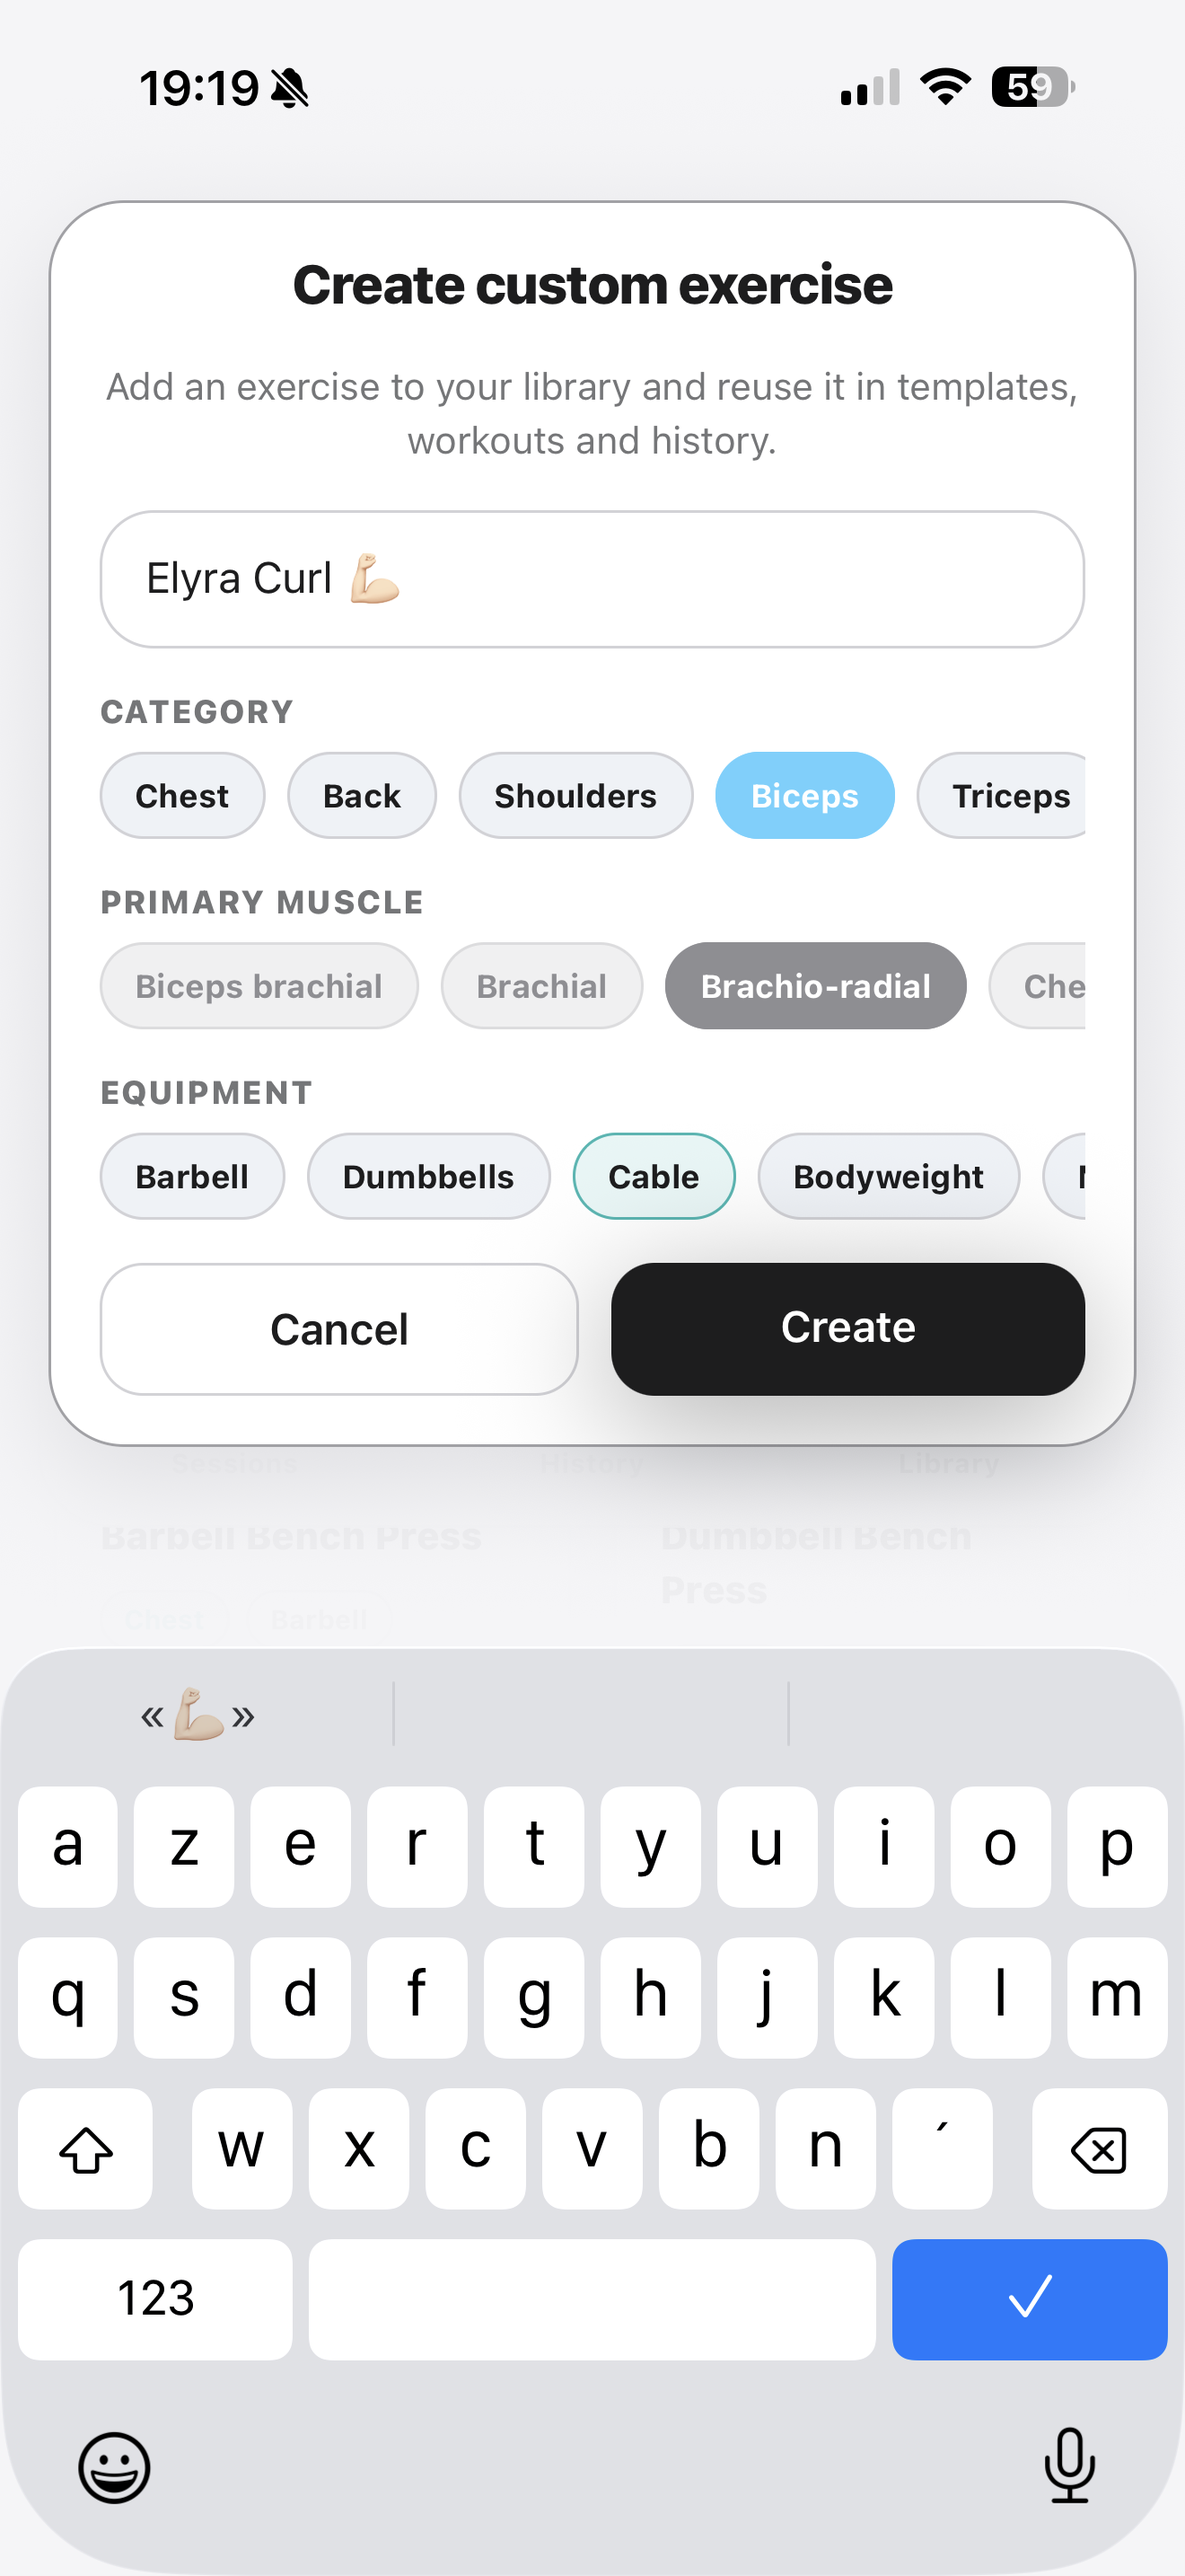
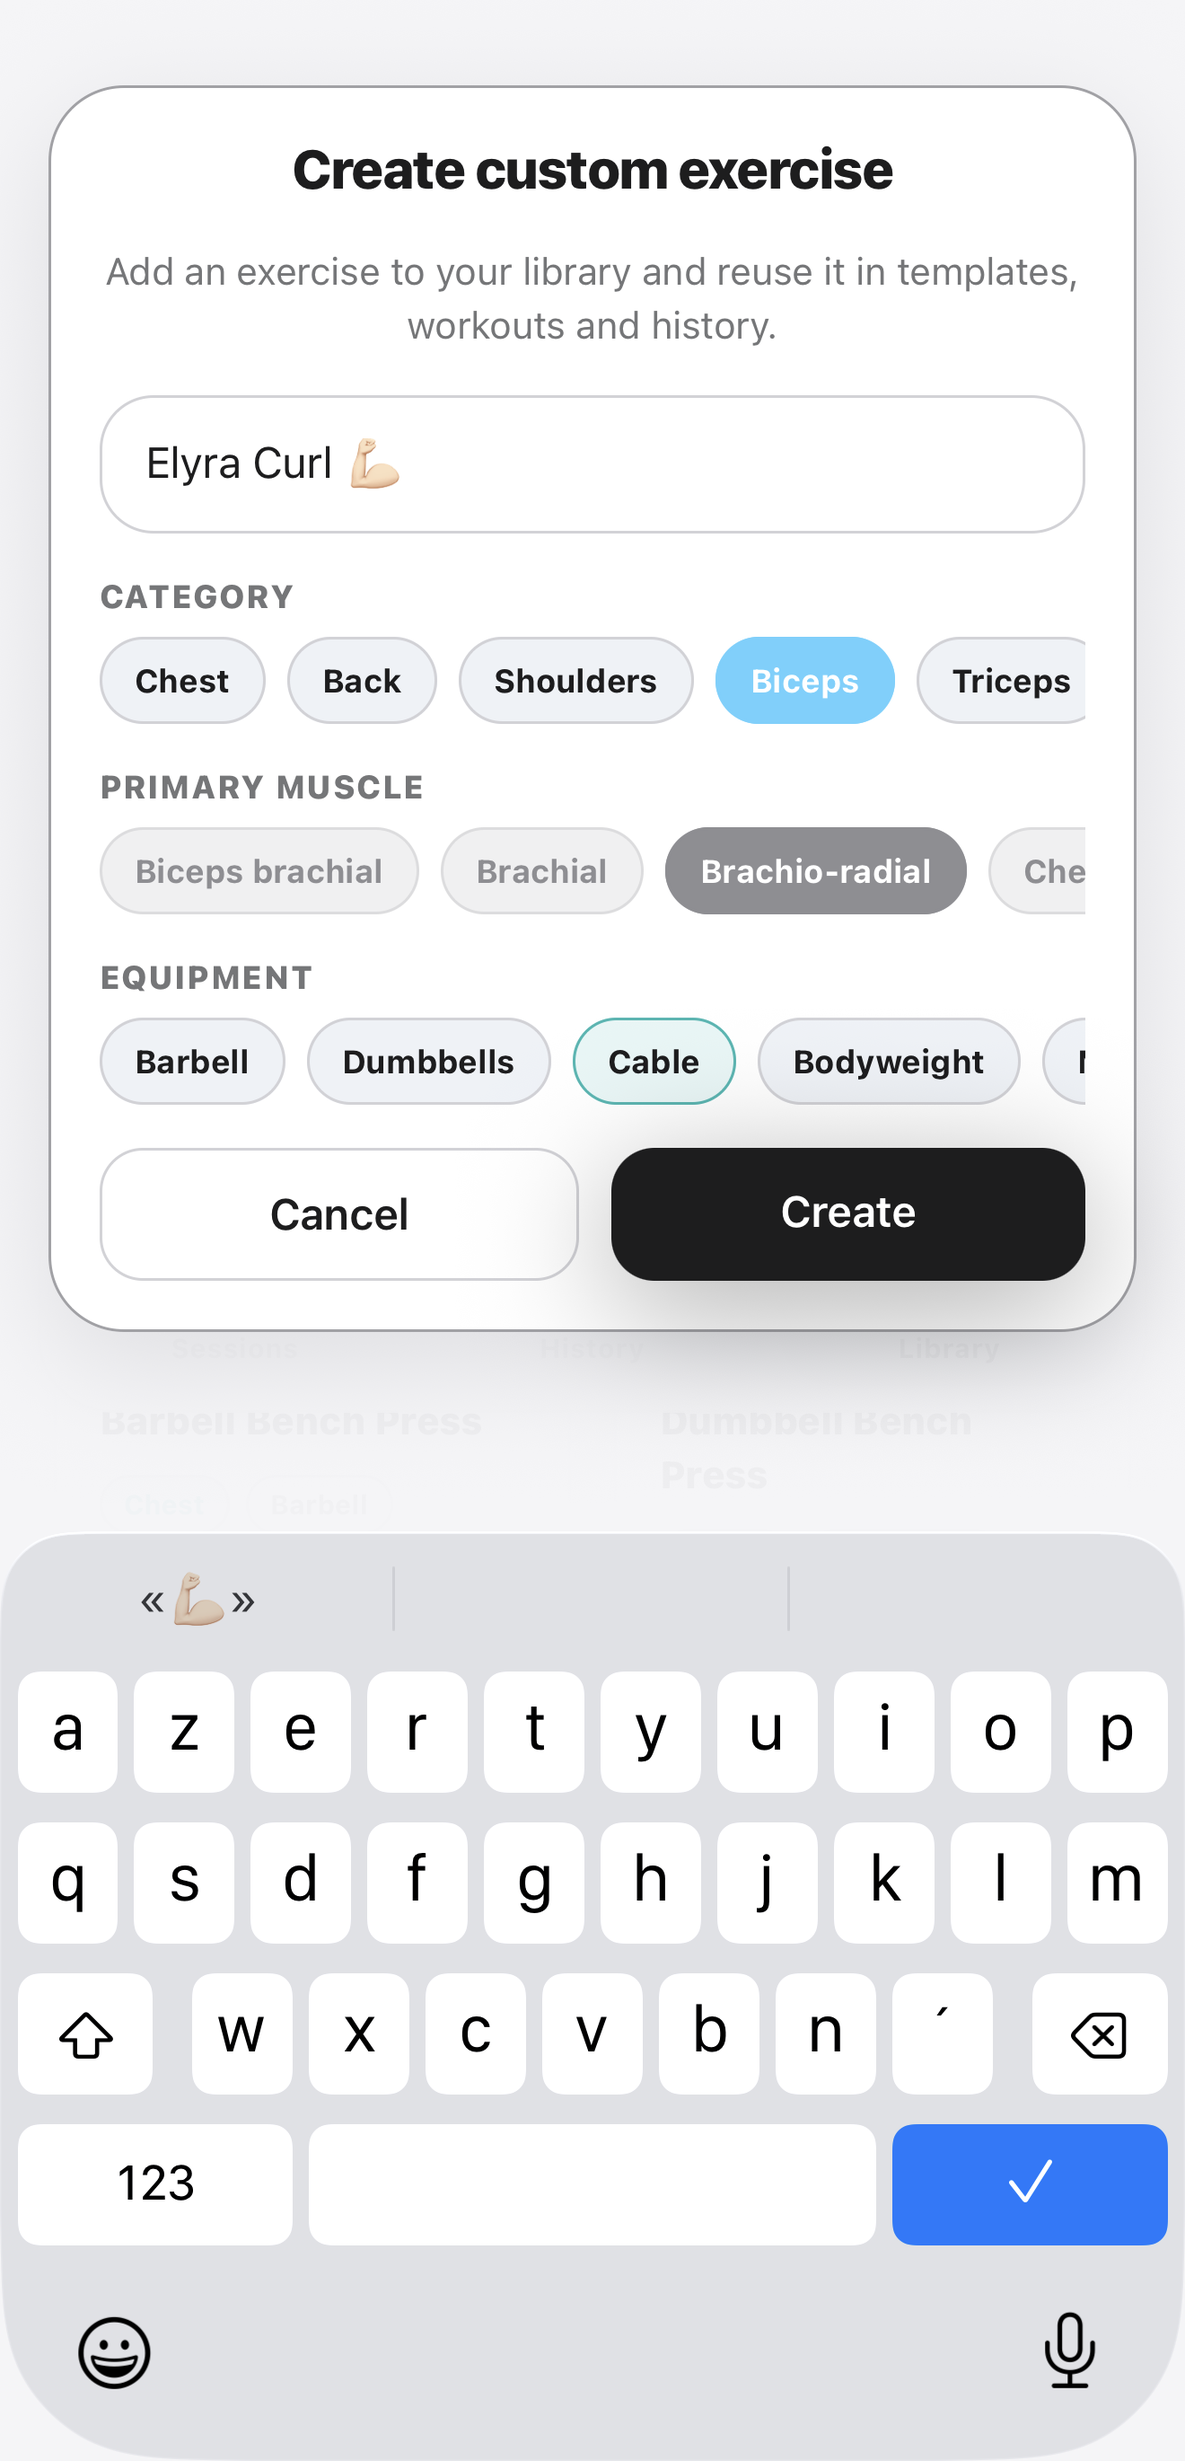
Polish app screenshots for public mockups

diff --git a/index.html b/index.html
@@ -47,7 +47,7 @@
     <link rel="manifest" href="site.webmanifest" />
     <link rel="preload" as="image" href="assets/brand/elyra-app-icon.png" />
     <link rel="preload" as="image" href="assets/screenshots/fr/home.png" />
-    <link rel="stylesheet" href="styles.css?v=20260429-2" />
+    <link rel="stylesheet" href="styles.css?v=20260429-3" />
     <script>
       document.documentElement.classList.add("js");
     </script>
@@ -141,7 +141,7 @@
                   src="assets/screenshots/fr/home.png"
                   alt="Aperçu de l'écran d'accueil Elyra sur iPhone."
                   width="1320"
-                  height="2868"
+                  height="2740"
                   decoding="async"
                   fetchpriority="high"
                 />
@@ -188,7 +188,7 @@
                   src="assets/screenshots/fr/nutrition.png"
                   alt="Aperçu du journal nutrition Elyra sur iPhone."
                   width="1320"
-                  height="2868"
+                  height="2740"
                   loading="lazy"
                   decoding="async"
                 />
@@ -210,7 +210,7 @@
                     src="assets/screenshots/fr/meal-plan.png"
                     alt="Aperçu du plan alimentaire Elyra."
                     width="1320"
-                    height="2868"
+                    height="2740"
                     loading="lazy"
                     decoding="async"
                   />
@@ -230,7 +230,7 @@
                     src="assets/screenshots/fr/nutrition-stats.png"
                     alt="Aperçu des statistiques nutrition dans Elyra."
                     width="1320"
-                    height="2868"
+                    height="2740"
                     loading="lazy"
                     decoding="async"
                   />
@@ -250,7 +250,7 @@
                     src="assets/screenshots/fr/recipe.png"
                     alt="Aperçu d'une recette dans Elyra."
                     width="1320"
-                    height="2868"
+                    height="2740"
                     loading="lazy"
                     decoding="async"
                   />
@@ -315,7 +315,7 @@
                     src="assets/screenshots/fr/exercise-detail.png"
                     alt="Aperçu d'une fiche exercice dans Elyra."
                     width="1320"
-                    height="2868"
+                    height="2740"
                     loading="lazy"
                     decoding="async"
                   />
@@ -335,7 +335,7 @@
                     src="assets/screenshots/fr/custom-exercise.png"
                     alt="Aperçu de la création d'exercice personnalisé dans Elyra."
                     width="1320"
-                    height="2868"
+                    height="2740"
                     loading="lazy"
                     decoding="async"
                   />
@@ -355,7 +355,7 @@
                     src="assets/screenshots/fr/active-workout.png"
                     alt="Aperçu d'une séance active dans Elyra."
                     width="1320"
-                    height="2868"
+                    height="2740"
                     loading="lazy"
                     decoding="async"
                   />
@@ -403,7 +403,7 @@
                   src="assets/screenshots/fr/progress.png"
                   alt="Aperçu détaillé de la progression dans Elyra."
                   width="1320"
-                  height="2868"
+                  height="2740"
                   loading="lazy"
                   decoding="async"
                 />
@@ -425,7 +425,7 @@
                     src="assets/screenshots/fr/hydration.png"
                     alt="Aperçu du suivi d'hydratation dans Elyra."
                     width="1320"
-                    height="2868"
+                    height="2740"
                     loading="lazy"
                     decoding="async"
                   />
@@ -466,7 +466,7 @@
                     src="assets/screenshots/fr/community.png"
                     alt="Aperçu de la communauté Elyra avec des séances partagées."
                     width="1320"
-                    height="2868"
+                    height="2740"
                     loading="lazy"
                     decoding="async"
                   />
@@ -487,7 +487,7 @@
                     src="assets/screenshots/fr/unilateral.png"
                     alt="Aperçu du suivi unilatéral dans une séance Elyra."
                     width="1320"
-                    height="2868"
+                    height="2740"
                     loading="lazy"
                     decoding="async"
                   />
@@ -508,7 +508,7 @@
                     src="assets/screenshots/fr/supplements.png"
                     alt="Aperçu du suivi des suppléments dans Elyra."
                     width="1320"
-                    height="2868"
+                    height="2740"
                     loading="lazy"
                     decoding="async"
                   />

diff --git a/index-en.html b/index-en.html
@@ -47,7 +47,7 @@
     <link rel="manifest" href="site.webmanifest" />
     <link rel="preload" as="image" href="assets/brand/elyra-app-icon.png" />
     <link rel="preload" as="image" href="assets/screenshots/en/home.png" />
-    <link rel="stylesheet" href="styles.css?v=20260429-2" />
+    <link rel="stylesheet" href="styles.css?v=20260429-3" />
     <script>
       document.documentElement.classList.add("js");
     </script>
@@ -141,7 +141,7 @@
                   src="assets/screenshots/en/home.png"
                   alt="Preview of Elyra's home screen on iPhone."
                   width="1320"
-                  height="2868"
+                  height="2740"
                   decoding="async"
                   fetchpriority="high"
                 />
@@ -188,7 +188,7 @@
                   src="assets/screenshots/en/nutrition.png"
                   alt="Preview of Elyra nutrition tracking."
                   width="1320"
-                  height="2868"
+                  height="2740"
                   loading="lazy"
                   decoding="async"
                 />
@@ -210,7 +210,7 @@
                     src="assets/screenshots/en/meal-plan.png"
                     alt="Preview of Elyra meal planning."
                     width="1320"
-                    height="2868"
+                    height="2740"
                     loading="lazy"
                     decoding="async"
                   />
@@ -230,7 +230,7 @@
                     src="assets/screenshots/en/nutrition-stats.png"
                     alt="Preview of nutrition statistics in Elyra."
                     width="1320"
-                    height="2868"
+                    height="2740"
                     loading="lazy"
                     decoding="async"
                   />
@@ -250,7 +250,7 @@
                     src="assets/screenshots/en/recipe.png"
                     alt="Preview of a recipe in Elyra."
                     width="1320"
-                    height="2868"
+                    height="2740"
                     loading="lazy"
                     decoding="async"
                   />
@@ -315,7 +315,7 @@
                     src="assets/screenshots/en/exercise-detail.png"
                     alt="Preview of an exercise detail page in Elyra."
                     width="1320"
-                    height="2868"
+                    height="2740"
                     loading="lazy"
                     decoding="async"
                   />
@@ -335,7 +335,7 @@
                     src="assets/screenshots/en/custom-exercise.png"
                     alt="Preview of custom exercise creation in Elyra."
                     width="1320"
-                    height="2868"
+                    height="2740"
                     loading="lazy"
                     decoding="async"
                   />
@@ -355,7 +355,7 @@
                     src="assets/screenshots/en/training.png"
                     alt="Preview of an active workout in Elyra."
                     width="1320"
-                    height="2868"
+                    height="2740"
                     loading="lazy"
                     decoding="async"
                   />
@@ -403,7 +403,7 @@
                   src="assets/screenshots/en/progress.png"
                   alt="Detailed progress preview in Elyra."
                   width="1320"
-                  height="2868"
+                  height="2740"
                   loading="lazy"
                   decoding="async"
                 />
@@ -425,7 +425,7 @@
                     src="assets/screenshots/en/hydration.png"
                     alt="Preview of hydration tracking in Elyra."
                     width="1320"
-                    height="2868"
+                    height="2740"
                     loading="lazy"
                     decoding="async"
                   />
@@ -467,7 +467,7 @@
                     src="assets/screenshots/en/community.png"
                     alt="Preview of Elyra community workout sharing."
                     width="1320"
-                    height="2868"
+                    height="2740"
                     loading="lazy"
                     decoding="async"
                   />
@@ -488,7 +488,7 @@
                     src="assets/screenshots/en/unilateral.png"
                     alt="Preview of per-side exercise tracking in Elyra."
                     width="1320"
-                    height="2868"
+                    height="2740"
                     loading="lazy"
                     decoding="async"
                   />
@@ -509,7 +509,7 @@
                     src="assets/screenshots/en/supplements.png"
                     alt="Preview of supplement tracking in Elyra."
                     width="1320"
-                    height="2868"
+                    height="2740"
                     loading="lazy"
                     decoding="async"
                   />

diff --git a/styles.css b/styles.css
@@ -449,7 +449,7 @@ h3 {
 .hero-product-card {
   position: relative;
   width: min(100%, 340px);
-  aspect-ratio: 1320 / 2868;
+  aspect-ratio: 1320 / 2740;
   margin: auto;
   overflow: hidden;
   border: 1px solid rgba(255, 255, 255, 0.16);
@@ -859,7 +859,7 @@ h3 {
   justify-self: center;
   width: min(100%, 350px);
   height: auto;
-  aspect-ratio: 1320 / 2868;
+  aspect-ratio: 1320 / 2740;
   border-color: rgba(255, 255, 255, 0.16);
   border-radius: 34px;
   background: #f8faf8;
@@ -1017,7 +1017,7 @@ h3 {
 .progress-phone {
   justify-self: center;
   width: min(100%, 310px);
-  aspect-ratio: 1320 / 2868;
+  aspect-ratio: 1320 / 2740;
   overflow: hidden;
   border: 1px solid rgba(255, 255, 255, 0.16);
   border-radius: 34px;
@@ -1120,7 +1120,7 @@ h3 {
   align-self: end;
   justify-self: center;
   width: min(100%, 255px);
-  aspect-ratio: 1320 / 2868;
+  aspect-ratio: 1320 / 2740;
   overflow: hidden;
   margin: 1.05rem auto -118px;
   border: 1px solid rgba(17, 21, 28, 0.1);
@@ -1301,7 +1301,7 @@ h3 {
 .signature-phone {
   justify-self: center;
   width: min(100%, 315px);
-  aspect-ratio: 1320 / 2868;
+  aspect-ratio: 1320 / 2740;
   overflow: hidden;
   border: 1px solid rgba(17, 21, 28, 0.1);
   border-radius: 34px;

diff --git a/delete-account-en.html b/delete-account-en.html
@@ -36,7 +36,7 @@
     <link rel="icon" href="assets/favicons/favicon.svg" type="image/svg+xml" />
     <link rel="apple-touch-icon" href="assets/favicons/apple-touch-icon.png" />
     <link rel="manifest" href="site.webmanifest" />
-    <link rel="stylesheet" href="styles.css?v=20260429-2" />
+    <link rel="stylesheet" href="styles.css?v=20260429-3" />
     <script>
       document.documentElement.classList.add("js");
     </script>

diff --git a/delete-account.html b/delete-account.html
@@ -36,7 +36,7 @@
     <link rel="icon" href="assets/favicons/favicon.svg" type="image/svg+xml" />
     <link rel="apple-touch-icon" href="assets/favicons/apple-touch-icon.png" />
     <link rel="manifest" href="site.webmanifest" />
-    <link rel="stylesheet" href="styles.css?v=20260429-2" />
+    <link rel="stylesheet" href="styles.css?v=20260429-3" />
     <script>
       document.documentElement.classList.add("js");
     </script>

diff --git a/privacy-en.html b/privacy-en.html
@@ -39,7 +39,7 @@
     <link rel="icon" href="assets/favicons/favicon.svg" type="image/svg+xml" />
     <link rel="apple-touch-icon" href="assets/favicons/apple-touch-icon.png" />
     <link rel="manifest" href="site.webmanifest" />
-    <link rel="stylesheet" href="styles.css?v=20260429-2" />
+    <link rel="stylesheet" href="styles.css?v=20260429-3" />
     <script>
       document.documentElement.classList.add("js");
     </script>

diff --git a/privacy.html b/privacy.html
@@ -39,7 +39,7 @@
     <link rel="icon" href="assets/favicons/favicon.svg" type="image/svg+xml" />
     <link rel="apple-touch-icon" href="assets/favicons/apple-touch-icon.png" />
     <link rel="manifest" href="site.webmanifest" />
-    <link rel="stylesheet" href="styles.css?v=20260429-2" />
+    <link rel="stylesheet" href="styles.css?v=20260429-3" />
     <script>
       document.documentElement.classList.add("js");
     </script>

diff --git a/support-en.html b/support-en.html
@@ -36,7 +36,7 @@
     <link rel="icon" href="assets/favicons/favicon.svg" type="image/svg+xml" />
     <link rel="apple-touch-icon" href="assets/favicons/apple-touch-icon.png" />
     <link rel="manifest" href="site.webmanifest" />
-    <link rel="stylesheet" href="styles.css?v=20260429-2" />
+    <link rel="stylesheet" href="styles.css?v=20260429-3" />
     <script>
       document.documentElement.classList.add("js");
     </script>

diff --git a/support.html b/support.html
@@ -36,7 +36,7 @@
     <link rel="icon" href="assets/favicons/favicon.svg" type="image/svg+xml" />
     <link rel="apple-touch-icon" href="assets/favicons/apple-touch-icon.png" />
     <link rel="manifest" href="site.webmanifest" />
-    <link rel="stylesheet" href="styles.css?v=20260429-2" />
+    <link rel="stylesheet" href="styles.css?v=20260429-3" />
     <script>
       document.documentElement.classList.add("js");
     </script>

diff --git a/terms-en.html b/terms-en.html
@@ -36,7 +36,7 @@
     <link rel="icon" href="assets/favicons/favicon.svg" type="image/svg+xml" />
     <link rel="apple-touch-icon" href="assets/favicons/apple-touch-icon.png" />
     <link rel="manifest" href="site.webmanifest" />
-    <link rel="stylesheet" href="styles.css?v=20260429-2" />
+    <link rel="stylesheet" href="styles.css?v=20260429-3" />
     <script>
       document.documentElement.classList.add("js");
     </script>

diff --git a/terms.html b/terms.html
@@ -36,7 +36,7 @@
     <link rel="icon" href="assets/favicons/favicon.svg" type="image/svg+xml" />
     <link rel="apple-touch-icon" href="assets/favicons/apple-touch-icon.png" />
     <link rel="manifest" href="site.webmanifest" />
-    <link rel="stylesheet" href="styles.css?v=20260429-2" />
+    <link rel="stylesheet" href="styles.css?v=20260429-3" />
     <script>
       document.documentElement.classList.add("js");
     </script>
